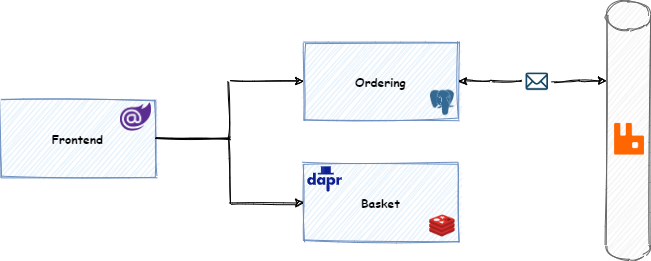
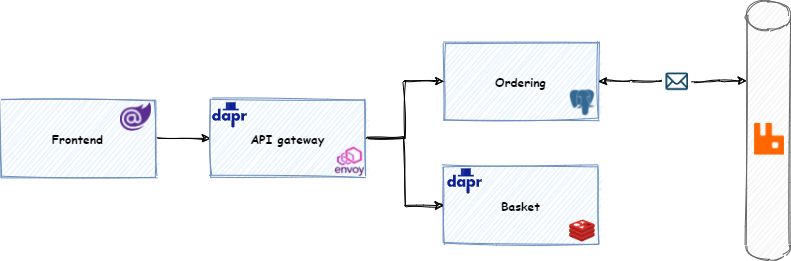
update readme for gateway addition

Changed region(s): [[0.0614, 0.0, 1.0, 1.0], [0.7373, 0.6743, 0.768, 0.7356], [0.7373, 0.7663, 0.768, 0.7969]]

diff --git a/README.md b/README.md
@@ -22,13 +22,12 @@
 
 [Follow migration instructions](src/services/Ordering/Migrations/)
 
-
 ### Links
 
 **Application**
 * [Shop frontend](https://localhost:16968/)
-* [Orders API](http://localhost:16969/swagger/index.html)
-* [Basket API](http://localhost:16970/swagger/index.html)
+* [Orders API](http://localhost:10000/api/ordering)
+* [Basket API](http://localhost:10000/api/basket)
  
 **Tracing**
 * [Jaeger](http://localhost:16686/)
@@ -45,6 +44,10 @@
 
 **Dapr**
 * [Dashboard](http://localhost:8034)
+
+**Swagger**
+* [Orders API](http://localhost:16969/swagger/index.html)
+* [Basket API](http://localhost:16970/swagger/index.html)
 
 ### Running tests
 
